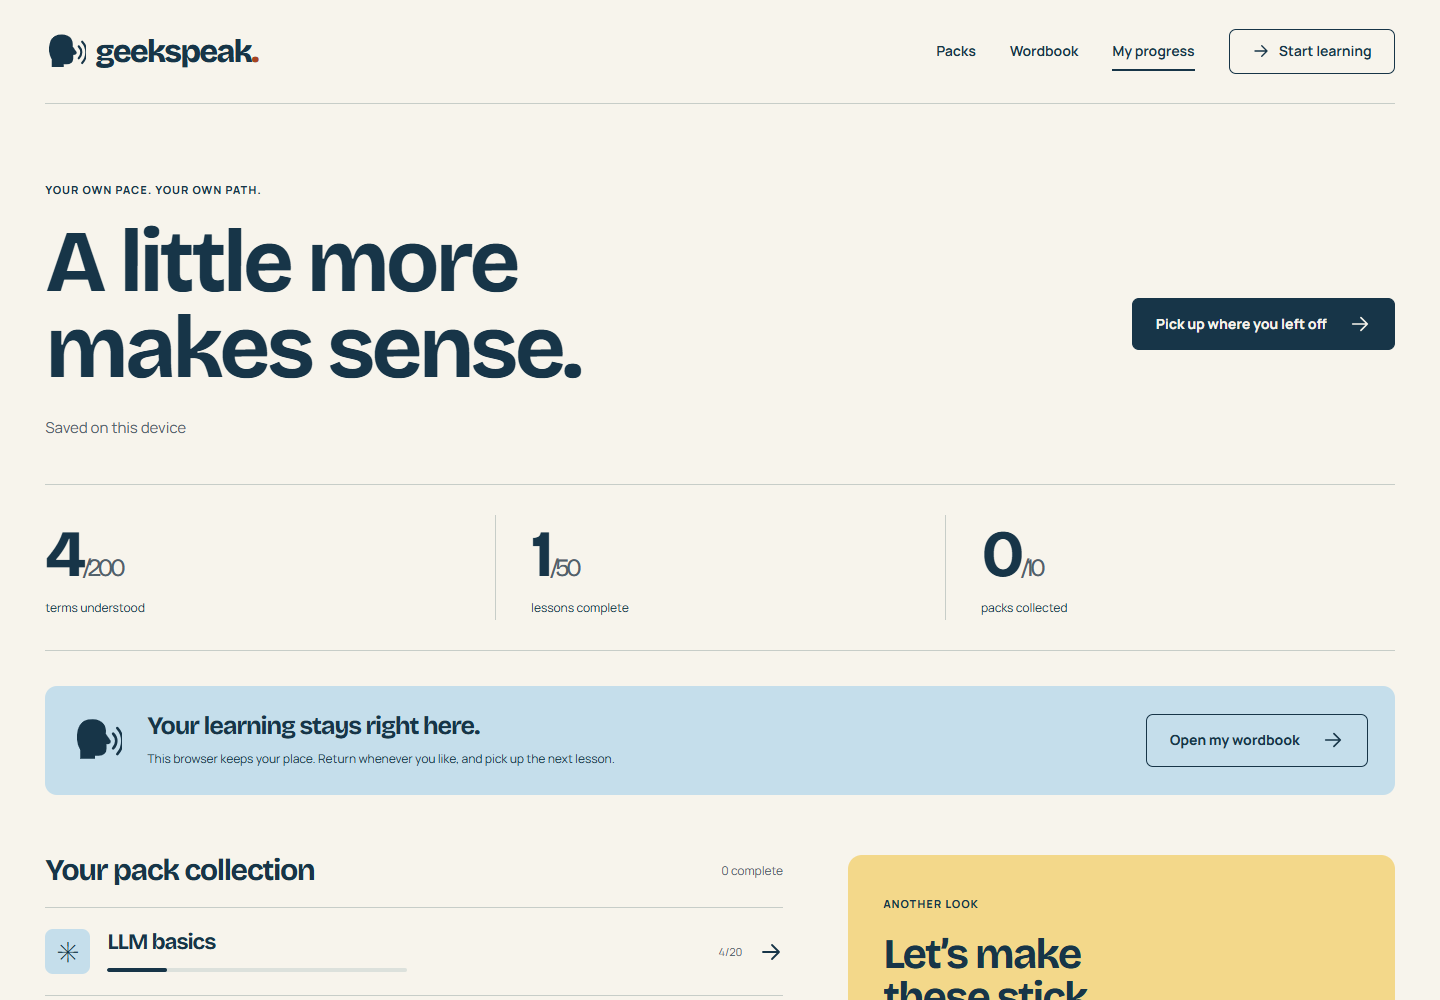
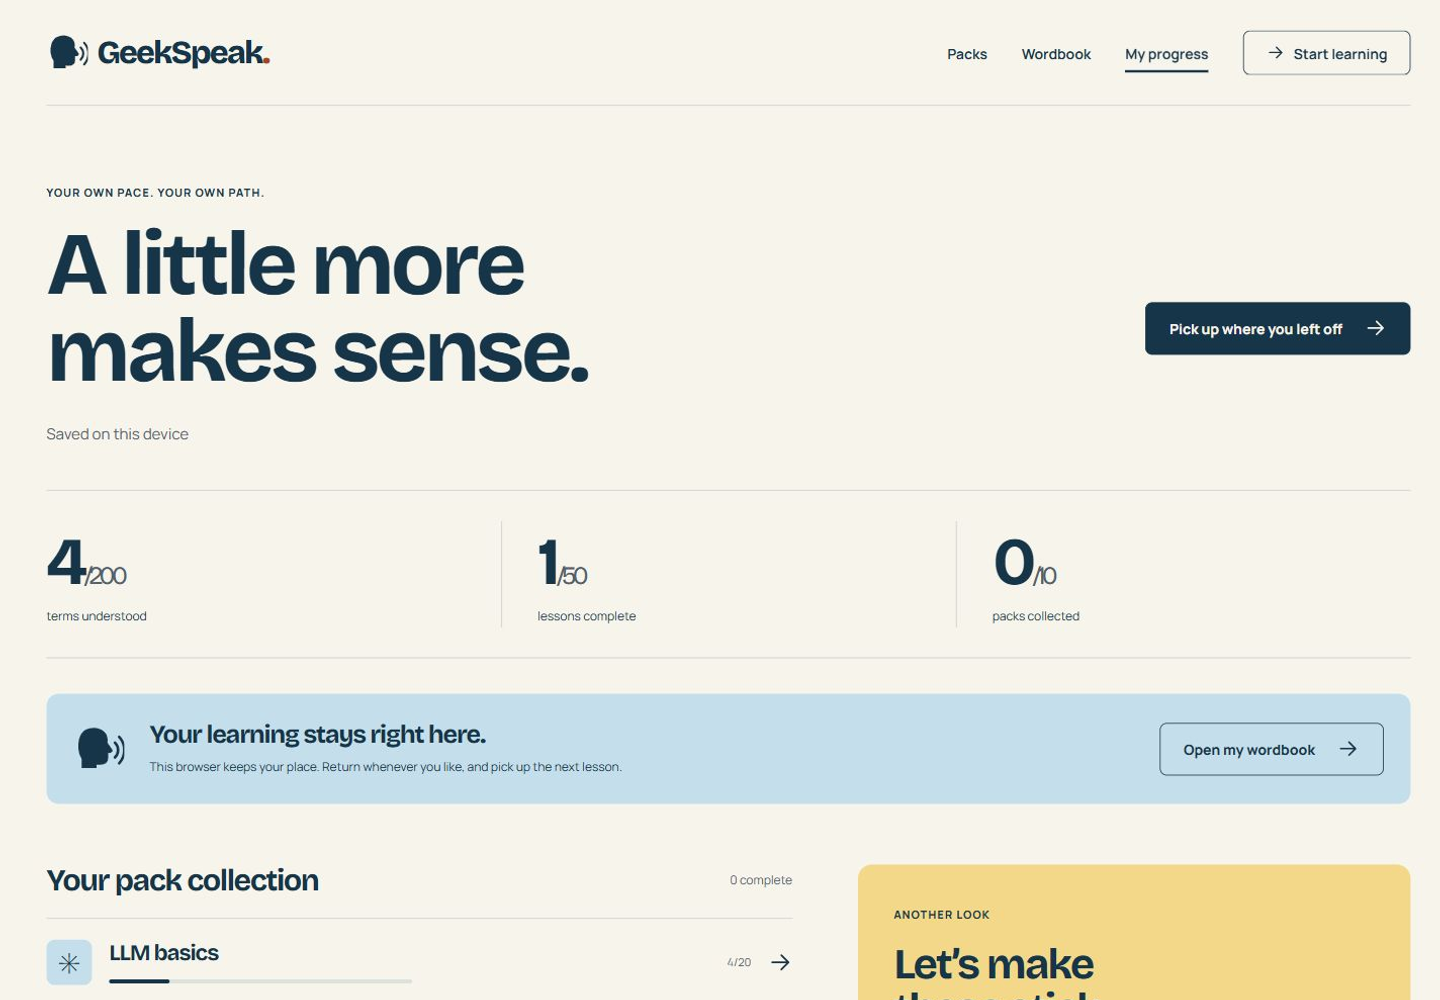
Use GeekSpeak branding and geek-speak.vercel.app

diff --git a/src/app/about/page.tsx b/src/app/about/page.tsx
@@ -3,22 +3,22 @@ import Link from "next/link";
 import { Arrow, Logo } from "@/components/Icons";
 import { githubUrl } from "@/lib/site";
 export const metadata: Metadata = {
-  title: "About Geekspeak",
+  title: "About GeekSpeak",
   description:
-    "A useful tech vocabulary, built for curious people. Learn why Geekspeak focuses on understanding, real examples and progress without pressure.",
+    "A useful tech vocabulary, built for curious people. Learn why GeekSpeak focuses on understanding, real examples and progress without pressure.",
 };
 export default function About() {
   return (
     <article className="prose-page">
       <Logo className="prose-logo" />
-      <span className="section-label">WHY GEEKSPEAK EXISTS</span>
+      <span className="section-label">WHY GeekSpeak EXISTS</span>
       <h1>You shouldn’t need a dictionary to follow the conversation.</h1>
       <p className="lead">
         Someone mentions a coroutine. Someone else says “just use Terraform”.
         You nod, and quietly add another word to the list of things to look up.
       </p>
       <p>
-        Geekspeak is for that list. It brings together useful terms from AI,
+        GeekSpeak is for that list. It brings together useful terms from AI,
         programming and the systems behind everyday software. Each one gets a
         plain explanation, a concrete example and a question that checks whether
         it makes sense.
@@ -39,7 +39,7 @@ export default function About() {
       </p>
       <h2>Open to learn. Open to improve.</h2>
       <p>
-        The explanations and questions are written for Geekspeak, with links to
+        The explanations and questions are written for GeekSpeak, with links to
         original documentation. The project is free and open source. If an
         example is unclear or a definition needs correcting, you can report it
         on GitHub.

diff --git a/src/app/privacy/page.tsx b/src/app/privacy/page.tsx
@@ -3,7 +3,7 @@ import { githubUrl } from "@/lib/site";
 export const metadata: Metadata = {
   title: "Privacy",
   description:
-    "What Geekspeak stores when you learn as a guest, sign in with GitHub or choose to join the leaderboard.",
+    "What GeekSpeak stores when you learn as a guest, sign in with GitHub or choose to join the leaderboard.",
 };
 export default function Privacy() {
   return (
@@ -11,7 +11,7 @@ export default function Privacy() {
       <span className="section-label">YOUR DATA, EXPLAINED</span>
       <h1>Privacy without the small print.</h1>
       <p className="lead">
-        Geekspeak stores the information needed to remember what you have
+        GeekSpeak stores the information needed to remember what you have
         learned. It has no advertising or behavioural analytics.
       </p>
       <h2>Learning as a guest</h2>

diff --git a/src/app/layout.tsx b/src/app/layout.tsx
@@ -19,21 +19,21 @@ const body = Manrope({
 export const metadata: Metadata = {
   metadataBase: new URL(siteUrl),
   title: {
-    default: "Geekspeak. Get the tech talk.",
-    template: "%s | Geekspeak",
+    default: "GeekSpeak. Get the tech talk.",
+    template: "%s | GeekSpeak",
   },
   description,
   alternates: { canonical: "./" },
   openGraph: {
     type: "website",
-    siteName: "Geekspeak",
-    title: "Geekspeak. Get the tech talk.",
+    siteName: "GeekSpeak",
+    title: "GeekSpeak. Get the tech talk.",
     description,
     images: ["/opengraph-image"],
   },
   twitter: {
     card: "summary_large_image",
-    title: "Geekspeak. Get the tech talk.",
+    title: "GeekSpeak. Get the tech talk.",
     description,
     images: ["/opengraph-image"],
   },

diff --git a/src/app/sign-in/page.tsx b/src/app/sign-in/page.tsx
@@ -6,8 +6,8 @@ import { GuestAccount } from "@/components/GuestAccount";
 export const metadata: Metadata = {
   title: authConfigured ? "Save your place" : "Guest progress",
   description: authConfigured
-    ? "Sign in with GitHub to save your Geekspeak learning progress across devices."
-    : "Learn every Geekspeak pack as a guest. This browser keeps your learned terms, saved words and completed lessons.",
+    ? "Sign in with GitHub to save your GeekSpeak learning progress across devices."
+    : "Learn every GeekSpeak pack as a guest. This browser keeps your learned terms, saved words and completed lessons.",
   robots: { index: false, follow: true },
 };
 export default async function SignInPage({

diff --git a/src/app/opengraph-image.tsx b/src/app/opengraph-image.tsx
@@ -1,6 +1,6 @@
 import { ImageResponse } from "next/og";
 export const dynamic = "force-static";
-export const alt = "Geekspeak. Tech talk. Now you get it.";
+export const alt = "GeekSpeak. Tech talk. Now you get it.";
 export const size = { width: 1200, height: 630 };
 export const contentType = "image/png";
 export default function Image() {
@@ -18,7 +18,7 @@ export default function Image() {
       }}
     >
       <div style={{ display: "flex", fontSize: 32, fontWeight: 700 }}>
-        geekspeak.
+        GeekSpeak.
       </div>
       <div
         style={{

diff --git a/src/app/learn/[pack]/[lesson]/page.tsx b/src/app/learn/[pack]/[lesson]/page.tsx
@@ -17,7 +17,7 @@ export async function generateMetadata({
   const pack = getPack(p.pack);
   return {
     title: pack?.lessons[Number(p.lesson) - 1] || "Lesson",
-    description: `Learn four useful terms from ${pack?.title || "Geekspeak"} through examples and short questions.`,
+    description: `Learn four useful terms from ${pack?.title || "GeekSpeak"} through examples and short questions.`,
     robots: { index: false, follow: true },
   };
 }

diff --git a/src/components/Header.tsx b/src/components/Header.tsx
@@ -40,10 +40,10 @@ export function Header() {
   ];
   return (
     <header className="site-header">
-      <Link href="/" className="brand" aria-label="Geekspeak home">
+      <Link href="/" className="brand" aria-label="GeekSpeak home">
         <Logo />
         <span>
-          geekspeak<span className="brand-dot">.</span>
+          GeekSpeak<span className="brand-dot">.</span>
         </span>
       </Link>
       <button

diff --git a/src/auth.ts b/src/auth.ts
@@ -25,7 +25,7 @@ export const { handlers, auth, signIn, signOut } = NextAuth({
               const response = await fetch("https://api.github.com/user", {
                 headers: {
                   Authorization: `Bearer ${tokens.access_token}`,
-                  "User-Agent": "Geekspeak",
+                  "User-Agent": "GeekSpeak",
                 },
                 cache: "no-store",
               });

diff --git a/src/app/not-found.tsx b/src/app/not-found.tsx
@@ -3,7 +3,7 @@ import type { Metadata } from "next";
 export const metadata: Metadata = {
   title: "Page not found",
   description:
-    "This page could not be found. Return to Geekspeak learning packs.",
+    "This page could not be found. Return to GeekSpeak learning packs.",
   robots: { index: false, follow: true },
 };
 import { Logo, Arrow } from "@/components/Icons";

diff --git a/src/app/page.tsx b/src/app/page.tsx
@@ -167,7 +167,7 @@ export default function Home() {
           __html: JSON.stringify({
             "@context": "https://schema.org",
             "@type": "WebApplication",
-            name: "Geekspeak",
+            name: "GeekSpeak",
             url: siteUrl,
             description,
             applicationCategory: "EducationalApplication",

diff --git a/src/app/packs/[slug]/page.tsx b/src/app/packs/[slug]/page.tsx
@@ -35,7 +35,7 @@ export default async function PackPage({
         >
           <div className={`pack-detail-art pack-${pack.colour}`}>
             <PackArt symbol={pack.symbol} />
-            <span>THE GEEKSPEAK COLLECTION</span>
+            <span>THE GeekSpeak COLLECTION</span>
           </div>
         </ViewTransition>
         <div>

diff --git a/src/components/Footer.tsx b/src/components/Footer.tsx
@@ -14,7 +14,7 @@ export function Footer() {
         </Link>
       </div>
       <div className="footer-wordmark" aria-hidden="true">
-        geekspeak<span>.</span>
+        GeekSpeak<span>.</span>
       </div>
       <div className="footer-bottom">
         <span>
